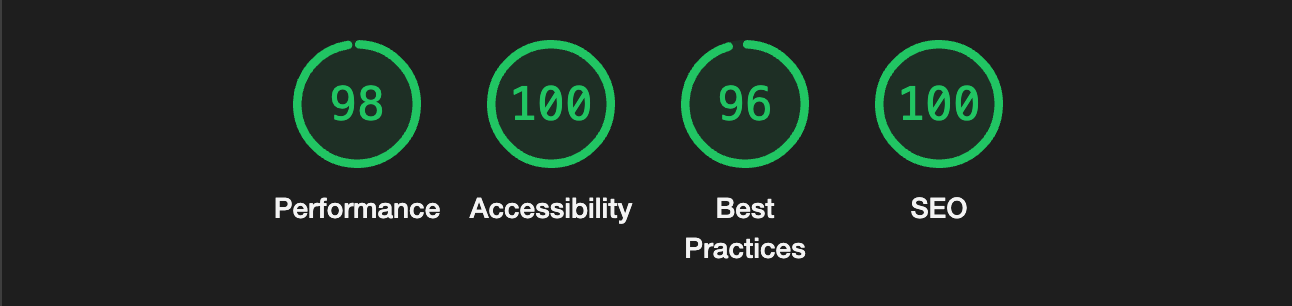
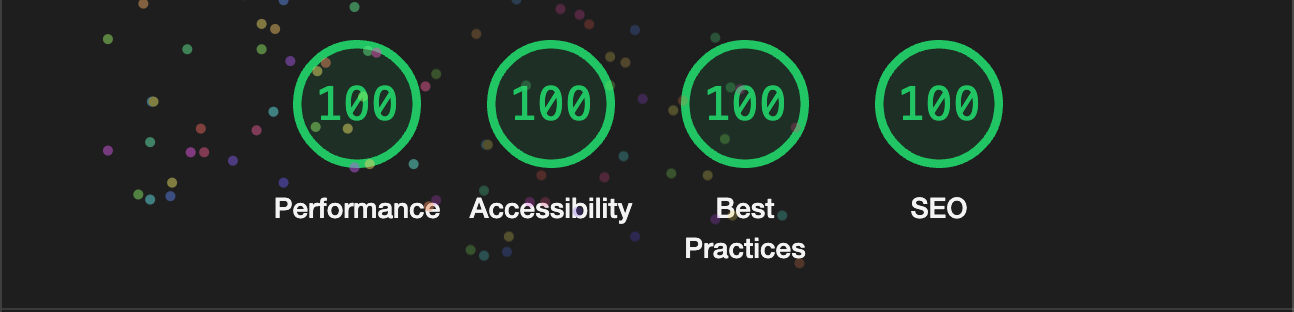
Updates docs and fixes og image

diff --git a/frontend/src/app/layout.tsx b/frontend/src/app/layout.tsx
@@ -9,7 +9,7 @@ export const metadata: Metadata = {
   title: "Krikey Code Challenge",
   description: "Built with Next.js, Node, Express, and Sequelize.",
   openGraph: {
-    images: ["/frontend_screenshot.png"],
+    images: ["/images/frontend_screenshot.png"],
   },
 };
 

diff --git a/docs/challenge_part_3.md b/docs/challenge_part_3.md
@@ -14,6 +14,12 @@ The added benefits of this approach are:
 
 ### Lighthouse scores
 
-The app scores above 90 on all Lighthouse score metrics for both mobile and desktop.
+The app hits 100 on all Lighthouse score metrics for both mobile and desktop on the deployed app: [https://author-list.vercel.app/](https://author-list.vercel.app/)
 
 <img src="images/lighthouse_scores.png" >
+
+### Deployed URLs
+
+Visit the deployed frontend: https://author-list.vercel.app/
+
+Visit the deployed backend: https://author-list-production.up.railway.app/authors
